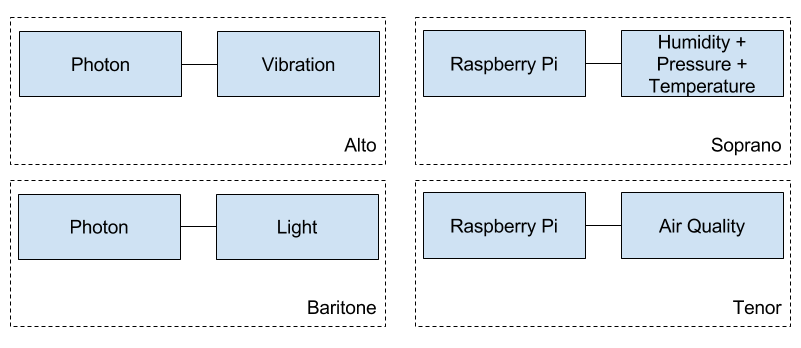
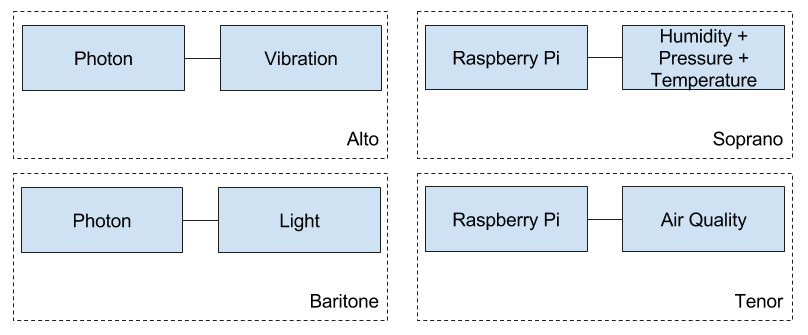
Update image

diff --git a/readme.md b/readme.md
@@ -5,7 +5,7 @@ Acappella is Choral's test Choral which is composed of the following devices:
   - **Soprano**: Rasberry Pi + BME280 Digital Humidity, Pressure, and Temperature sensor
   - **Tenor**: Raspberry Pi + MQ135 Air Quality Sensor
 
-<img src="images/architecture.png" width="600" />
+<img src="images/architecture.png" />
 
 License
 ----
